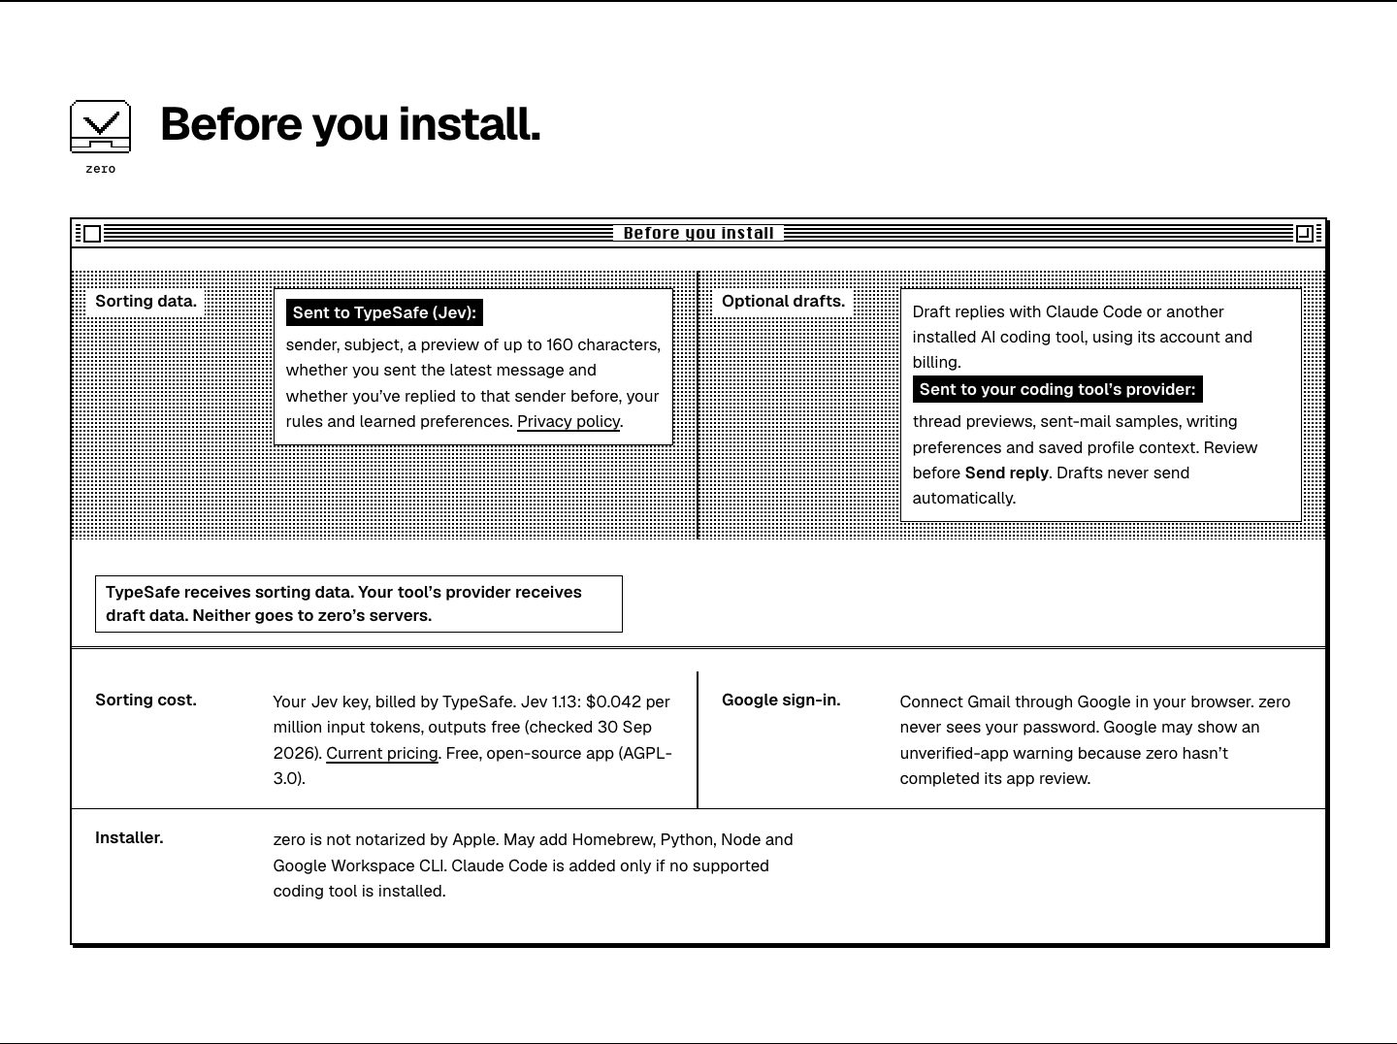
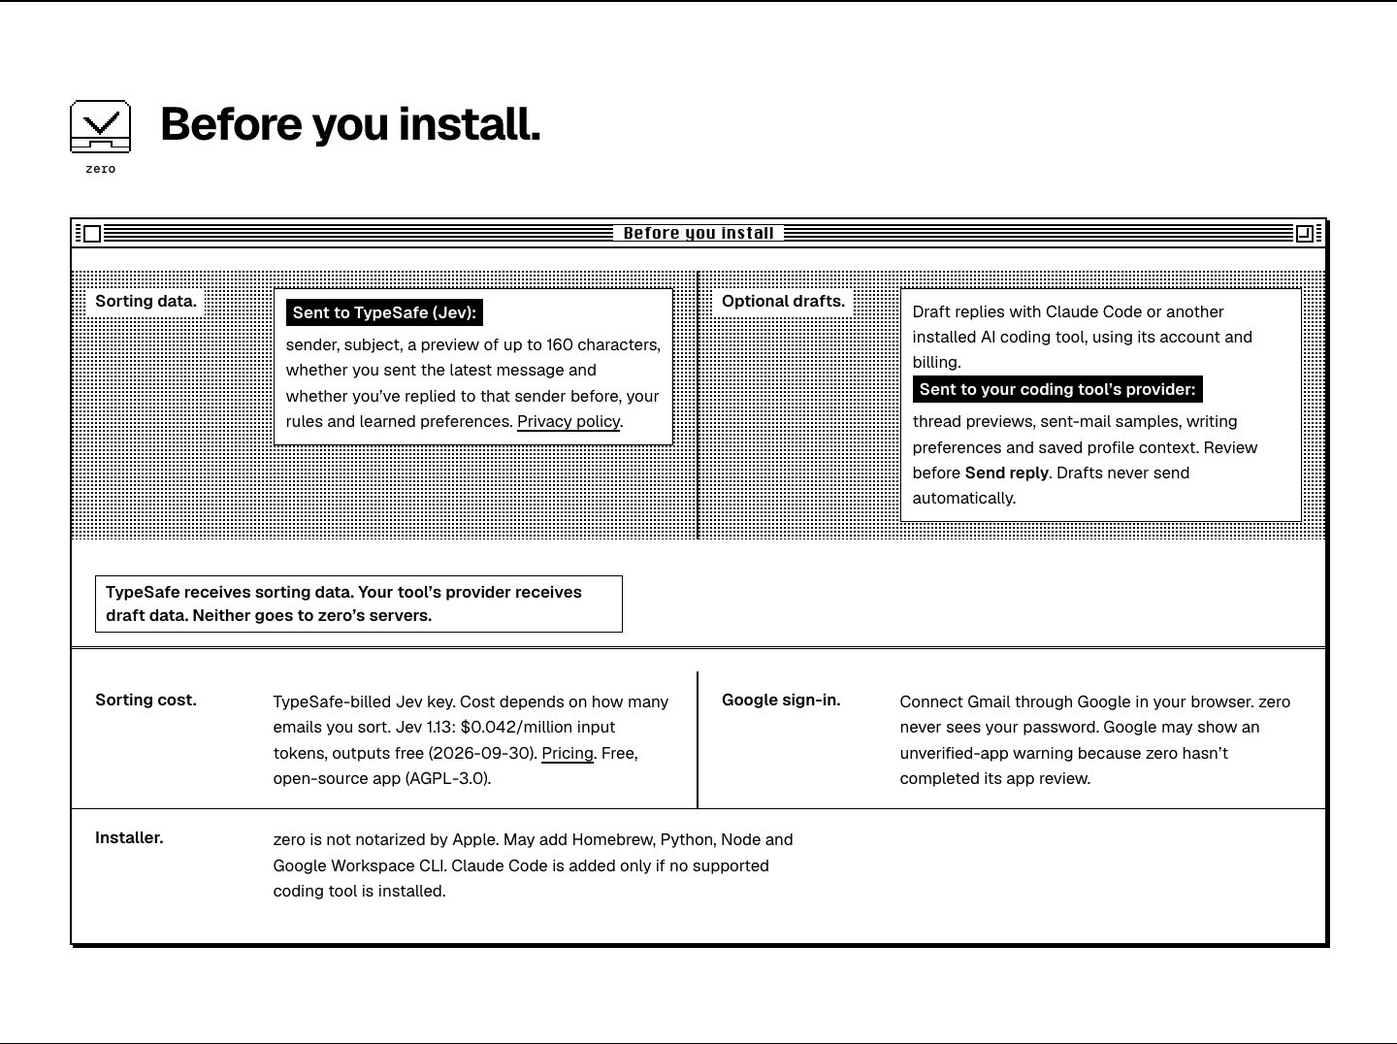
Freeze final page B: Draft6 cost line, owner decisions recorded
Owner approved tightened B at 65463b8 (02:30Z) and kept the hero Trash.
Only change: copywriter's Draft6 Sorting cost row (3088502), 'Cost depends
on how many emails you sort.', same 550 words.
- page-b rebuilt from COPY-B @ 3088502, draft flag now Draft6 (owner-approved)
- shots recaptured, proposal images refreshed
- proposal becomes the record: three reader rounds incl. PRIVACY-B-READERS
  (a98463b), Trash kept (review-qa closed as owner-accepted 7bd8eb0),
  Gmail/Apple Mail accepted as a known reader note, cost line, 148/144
- acceptance logs: Chromium 148/0, WebKit 144/0 (Playwright WebKit 2336)

hero-a/b/c, sections and page-a unchanged. No landing/, push or deploy.

Changed region(s): [[0.1875, 0.6441, 0.4688, 0.7667]]

diff --git a/missions/website-redesign-3/slices/02-references-and-comps/proof/comps/proposal/index.html b/missions/website-redesign-3/slices/02-references-and-comps/proof/comps/proposal/index.html
@@ -58,33 +58,33 @@ footer{padding:18px var(--pad);border-top:var(--line);font:400 14px/1.4 var(--la
 }
 </style>
 <body>
-<p class="draft-flag">PROPOSAL · proof only · not approved</p>
+<p class="draft-flag">RECORD · approved by the owner 02:30Z · not the live site</p>
 
 <header class="band" style="border-top:0">
   <h1>Page B, tightened.</h1>
-  <p class="lede">You chose page B (risk first) with hero B. This page compares the B readers first saw with tightened B, now reviewed, and one more fix after the review.</p>
+  <p class="lede">You approved tightened page B at 02:30Z, with the hero and its Trash unchanged, plus one plain line in the cost row. This page is now the record of what you approved and why. It compares the B readers first saw with the approved B.</p>
   <ol class="ask" id="summary" aria-label="Three-line summary">
     <li>B keeps its risk-first order and approved hero, cutting the repeated Stays/Archived demonstration.</li>
-    <li>Tightened B names both external data recipients and puts the dated Jev token price before sign-in and installation, without removing disclosure fields.</li>
-    <li>Tested type/layout/object/clipboard changes pass independent browser checks. Earlier installer GitHub 429 is retained; QA now independently observes three 302→200 successes. Privacy Draft5 and any approved hero change need a new freeze/recheck. No automatic daily promise, production build or deployment is included.</li>
+    <li>Draft5 names both external recipients and all three fresh readers understand that data leaves the Mac, but not to zero's servers. No fields or billing/install warnings removed.</li>
+    <li>Owner keeps Trash, scheduling unsaid and installer unchanged, accepts the Gmail/Apple Mail reader note, and requests one cost-volume sentence without a monthly estimate. Draft6 stays 550; final generated row/count and QA check are owed. No production build or deployment.</li>
   </ol>
-  <p class="aside-note" style="margin-top:8px">Summary quoted from the copywriter's <code>PROPOSAL.md</code> (83b68ce).</p>
+  <p class="aside-note" style="margin-top:8px">Summary quoted from the copywriter's <code>PROPOSAL.md</code> (a98463b).</p>
   <div class="status">
     <span class="tag inv">Page B + hero B: your choice</span>
-    <span class="tag">Tightened B: reviewed, 1 finding</span>
-    <span class="tag">Hero Trash: your call</span>
+    <span class="tag">Tightened B: approved</span>
+    <span class="tag">Hero Trash: kept, your call</span>
     <span class="tag">Page A: archived, unchanged</span>
     <span class="tag">Nothing is live</span>
   </div>
   <div class="open">
     <a class="btnlink" href="../page-b/">Open tightened B</a>
   </div>
-  <p class="aside-note" style="margin-top:14px">A real, running build with the motion on. Add <code>?static</code> to its address to see the finished state with no motion. The B readers first saw is frozen at <code>cdfee91</code>, and the tightened B that readers and review-qa checked at <code>50bf121</code>. The page you open now also carries the privacy fix below, which nobody has read yet. Page A is frozen as it was and is not part of this proposal (<code>page-a/ARCHIVED.md</code>).</p>
+  <p class="aside-note" style="margin-top:14px">A real, running build with the motion on. Add <code>?static</code> to its address to see the finished state with no motion. The B readers first saw is frozen at <code>cdfee91</code>, tightened B at <code>50bf121</code>, and the privacy fix that readers and review-qa checked at <code>65463b8</code>. The page you open now is the approved B with your cost line added. Page A is frozen as it was and is not part of this proposal (<code>page-a/ARCHIVED.md</code>).</p>
 </header>
 
 <section class="band ink" id="readers">
   <h2>What readers said</h2>
-  <p><b>Mixed, and not a vote for B.</b> Two rounds of fresh AI readers, three at a time, same prompt and model. The first round read the old B, the second read tightened B at <code>50bf121</code>.</p>
+  <p><b>Mixed, and not a vote for B.</b> Three rounds of fresh AI readers, three at a time, same prompt and model. They read the old B, then tightened B at <code>50bf121</code>, then the privacy fix at <code>65463b8</code>.</p>
   <p>Scores out of 5, in this order: job clarity / story / visuals / finding data, safety and cost / readiness to decide.</p>
   <div class="wrap"><table class="scores">
     <thead><tr><th>Page</th><th>R1</th><th>R2</th><th>R3</th></tr></thead>
@@ -92,17 +92,21 @@ footer{padding:18px var(--pad);border-top:var(--line);font:400 14px/1.4 var(--la
       <tr><td>Rejected baseline</td><td>4/3/2/4/2</td><td>4/3/2/3/2</td><td>4/3/2/4/3</td></tr>
       <tr><td>Old B <code>cdfee91</code></td><td>4/3/3/3/2</td><td>4/3/3/3/2</td><td>4/3/3/3/3</td></tr>
       <tr><td>Tightened B <code>50bf121</code></td><td>4/3/3/3/2</td><td>4/3/3/4/2</td><td>4/3/3/3/3</td></tr>
+      <tr><td>Privacy fix <code>65463b8</code></td><td>4/3/3/3/2</td><td>4/3/3/3/3</td><td>4/3/2/4/3</td></tr>
     </tbody>
   </table></div>
-  <p><b>Readiness did not improve.</b> The one higher findability score is a narrow signal, not a general gain. What did land: all three readers of tightened B found both outside recipients, what each receives, and the dated unit price.</p>
-  <p>Still open after tightened B: two of three still flag "No zero server receives your email" as easy to read as nothing leaving the Mac. That line is now replaced (see below), but the new line hasn't been read yet. All three ask what typical use costs and how the installer's Claude Code fits optional drafts. Those two are product questions for you, not copy fixes, and the page doesn't invent an estimate. Two of three flag the hero's archived folder beside Trash (review-qa's finding, below).</p>
-  <p class="aside-note">The readers are AI models reading stills and copy, not people and not live motion. Each round uses new sessions, so rounds are matched in procedure, not the same readers twice. Full analysis: <code>slices/01-copy-and-story/proof/rethink/TIGHTENED-B-READERS.md</code> and <code>after-findings.md</code>.</p>
+  <p><b>No broad improvement.</b> Readiness to decide moved from 2/2/3 to 2/3/3 in the last round, while findability moved both ways and one visuals score fell. That is a narrow signal, not a win. What did land: tightened B made both outside recipients, what each receives, and the dated unit price findable for all three readers.</p>
+  <p><b>The privacy fix worked for its one job.</b> After it, all three readers name TypeSafe for sorting, the coding tool's provider for optional drafts, and that neither goes to zero's servers. None repeats the earlier "nothing leaves the Mac" reading. One reader still asks how long the recipients keep data, which the page doesn't answer.</p>
+  <p><b>A cost of the fix:</b> two of three now ask whether Apple Mail is a supported account or only a place to read mail. Cutting the ledger's "Read connected Gmail in Gmail or Apple Mail." removed the only spot that said so. The same question showed up in earlier rounds, so it isn't caused only by the cut. You accepted it as a known note, with no copy change.</p>
+  <p>Readers still ask what typical use costs and how the installer's Claude Code fits optional drafts. The cost row now says cost depends on how many emails you sort, at your request. No reader has seen that line yet, and the page still doesn't invent a monthly estimate.</p>
+  <p class="aside-note">The readers are AI models reading stills and copy, not people and not live motion. Each round uses new sessions, so rounds are matched in procedure, not the same readers twice. Full analysis: <code>slices/01-copy-and-story/proof/rethink/PRIVACY-B-READERS.md</code>, <code>TIGHTENED-B-READERS.md</code> and <code>after-findings.md</code>.</p>
 </section>
 
 <section class="band" id="trust">
   <h2>The main change: who gets your data, and what it costs</h2>
   <p>The two rows where mail data leaves your Mac now come first, together, on their own dithered band. Each names its recipient in a black label on its own line: <b>Sent to TypeSafe (Jev):</b> and <b>Sent to your coding tool's provider:</b>. The cost row comes straight after, with Jev 1.13's per-token price dated 30 Sep 2026, then Google sign-in and the installer.</p>
   <p><b>After the review:</b> readers still misread the old reassurance, so it's now one full-width statement directly under the pair: "TypeSafe receives sorting data. Your tool's provider receives draft data. Neither goes to zero's servers." It says who does get the data before saying who doesn't. The lede above the window ("Read connected Gmail in Gmail or Apple Mail.") is cut to pay for it, since the hero already says you keep using Gmail or Apple Mail. Net +1 word, 550 of 550.</p>
+  <p><b>Your cost line (Draft6):</b> the Sorting cost row now reads "TypeSafe-billed Jev key. Cost depends on how many emails you sort. Jev 1.13: $0.042/million input tokens, outputs free (2026-09-30). Pricing. Free, open-source app (AGPL-3.0)." The same facts, compacted so the plain sentence fits. Still 550 words.</p>
   <div class="cols">
     <figure><img src="img/b-old/beat-ledger-f2.jpg" alt="Old B's Before you install window at 1440px: five equal rows, Google sign-in first, and TypeSafe's receipt of mail data in running text" loading="lazy" width="1440" height="917"><figcaption>Old B (cdfee91): five equal rows, sign-in first, no price</figcaption></figure>
     <figure><img src="img/b-new/ledger-1440.jpg" alt="Tightened B's Before you install window at 1440px: Sorting data and Optional drafts paired on a dithered band with black recipient labels, then an outlined full-width statement that TypeSafe receives sorting data, your tool's provider receives draft data and neither goes to zero's servers, then Sorting cost with the dated price, Google sign-in and Installer" loading="lazy" width="720" height="538"><figcaption>Tightened B with the privacy fix: recipients, then who doesn't get it, then the price</figcaption></figure>
@@ -117,16 +121,16 @@ footer{padding:18px var(--pad);border-top:var(--line);font:400 14px/1.4 var(--la
 </section>
 
 <section class="band" id="trash">
-  <h2>Review-qa's one finding: the hero's Trash</h2>
+  <h2>Review-qa's one finding: the hero's Trash (kept)</h2>
   <p>review-qa independently reran both engines (146/0 and 142/0, matching), re-probed the installer link (three clean redirects, so the earlier 429 was GitHub rate-limiting) and confirmed two earlier critique fixes are closed. It found one new issue, rated medium. The hero shows an empty Trash beside the archive folder, and the page promises "Nothing is deleted." Reader 1 ranked "remove or explain the Trash icon" their top fix. Reader 3 flagged the same pairing.</p>
-  <p>We recommend dropping the Trash icon. It's already drawn empty, and the question readers ask is why it's there at all, which an empty-state cue can't answer. The folder carries the story alone. Trash is part of the hero you approved, so this is your call. We haven't changed it. Dropping it removes one word ("Trash"), so the page would count 549.</p>
+  <p>We recommended dropping the Trash icon, since readers asked why it's there at all. <b>Your decision (02:30Z): keep it.</b> The hero stays exactly as approved, and review-qa has closed the finding as owner-accepted (<code>7bd8eb0</code>). The mockups below are kept as the record of what was weighed.</p>
   <div class="cols">
-    <figure><img src="img/trash/trash-keep-1440.jpg" alt="Hero B at 1440px as approved, with the Auto-Archived folder at lower left and an empty Trash can at lower right" loading="lazy" width="1440" height="900"><figcaption>As approved: folder and Trash</figcaption></figure>
-    <figure><img src="img/trash/trash-drop-1440.jpg" alt="Hero B at 1440px with the Trash can removed; only the Auto-Archived folder remains on the desktop" loading="lazy" width="1440" height="900"><figcaption>Proposed: folder only (mock, not built)</figcaption></figure>
+    <figure><img src="img/trash/trash-keep-1440.jpg" alt="Hero B at 1440px as approved, with the Auto-Archived folder at lower left and an empty Trash can at lower right" loading="lazy" width="1440" height="900"><figcaption>Kept: folder and Trash</figcaption></figure>
+    <figure><img src="img/trash/trash-drop-1440.jpg" alt="Hero B at 1440px with the Trash can removed; only the Auto-Archived folder remains on the desktop" loading="lazy" width="1440" height="900"><figcaption>Weighed, not chosen: folder only (mock, not built)</figcaption></figure>
   </div>
   <div class="cols">
-    <figure><img src="img/trash/trash-keep-390.jpg" alt="Hero B at 390px as approved, folder and Trash side by side above the inbox" loading="lazy" width="390" height="1100"><figcaption>As approved, 390px</figcaption></figure>
-    <figure><img src="img/trash/trash-drop-390.jpg" alt="Hero B at 390px with the Trash removed, folder alone above the inbox" loading="lazy" width="390" height="1100"><figcaption>Proposed, 390px (mock)</figcaption></figure>
+    <figure><img src="img/trash/trash-keep-390.jpg" alt="Hero B at 390px as approved, folder and Trash side by side above the inbox" loading="lazy" width="390" height="1100"><figcaption>Kept, 390px</figcaption></figure>
+    <figure><img src="img/trash/trash-drop-390.jpg" alt="Hero B at 390px with the Trash removed, folder alone above the inbox" loading="lazy" width="390" height="1100"><figcaption>Weighed, not chosen, 390px (mock)</figcaption></figure>
   </div>
   <p class="aside-note">Review: <code>slices/05-independent-qa/proof/proposal-review.md</code> (df6632d). The mock removes the icon in a live browser. It isn't built into the page.</p>
 </section>
@@ -186,7 +190,7 @@ footer{padding:18px var(--pad);border-top:var(--line);font:400 14px/1.4 var(--la
       <tr><td>Motion</td><td>One beat per section</td><td>Same four beats. Also settles at once if you turn on Reduce Motion mid-visit, or open a link straight to a section</td></tr>
     </tbody>
   </table></div>
-  <p class="aside-note" style="margin-top:12px">Words: 549 at <code>50bf121</code>, then 550 of 550 with the privacy fix (Draft5, <code>dcaabd6</code>), counted by the copywriter. Line-by-line copy: <code>slices/01-copy-and-story/proof/rethink/SELECTED-B-COPY.md</code>.</p>
+  <p class="aside-note" style="margin-top:12px">Words: 549 at <code>50bf121</code>, then 550 of 550 with the privacy fix (Draft5, <code>dcaabd6</code>) and with your cost line (Draft6, <code>3088502</code>), counted by the copywriter. Line-by-line copy: <code>slices/01-copy-and-story/proof/rethink/SELECTED-B-COPY.md</code>.</p>
 </section>
 
 <section class="band" id="motion">
@@ -223,11 +227,11 @@ footer{padding:18px var(--pad);border-top:var(--line);font:400 14px/1.4 var(--la
   <div class="wrap"><table>
     <thead><tr><th>Check</th><th>Result</th></tr></thead>
     <tbody>
-      <tr><td>Automated acceptance, 320 to 2560px</td><td>At <code>50bf121</code>: Chromium 146/0, WebKit 142/0, reproduced independently by the copywriter and by review-qa. With the privacy fix: Chromium 148/0, WebKit 144/0 (adds the privacy-line check and a scroll-timing check). No sideways scroll, text stays in its section, rendered words match the counted copy, the no-JS and reduced-motion states equal the finished page, keyboard focus only reaches real links and Copy command. Run on <code>acceptance/serve.py</code>: the plain Python server reset about 1 in 15 Chromium script requests, which showed up as false failures</td></tr>
+      <tr><td>Automated acceptance, 320 to 2560px</td><td>At <code>50bf121</code>: Chromium 146/0, WebKit 142/0, reproduced independently by the copywriter and by review-qa. With the privacy fix: Chromium 148/0, WebKit 144/0 (adds the privacy-line check and a scroll-timing check), and the same 148/0 and 144/0 again with your cost line. No sideways scroll, text stays in its section, rendered words match the counted copy, the no-JS and reduced-motion states equal the finished page, keyboard focus only reaches real links and Copy command. Run on <code>acceptance/serve.py</code>: the plain Python server reset about 1 in 15 Chromium script requests, which showed up as false failures</td></tr>
       <tr><td>Scroll timing</td><td>development-motion found that a reader scrolling very early could skip a section's beat, or leave it blank (reproduced on <code>50bf121</code>). Fixed in the shared motion script and covered by a new check</td></tr>
       <tr><td>Copy command</td><td>Tested with a stand-in clipboard (allowed, denied, missing), not the real system clipboard</td></tr>
-      <tr><td>Fresh readers on tightened B</td><td>3 read <code>50bf121</code>: mixed, readiness unchanged (above). <span class="pending">The privacy fix is not yet read</span></td></tr>
-      <tr><td>Adversarial review (review-qa)</td><td>Done on <code>50bf121</code> (df6632d): 1 new finding, the hero Trash. <span class="pending">Re-check of the privacy fix pending</span></td></tr>
+      <tr><td>Fresh readers</td><td>3 read <code>50bf121</code>, then 3 new readers read the privacy fix at <code>65463b8</code>: mixed, no broad improvement (above). <span class="pending">The cost line is not read</span></td></tr>
+      <tr><td>Adversarial review (review-qa)</td><td>Pass 1 on <code>50bf121</code> (df6632d): 1 finding, the hero Trash, closed as owner-accepted (<code>7bd8eb0</code>). Pass 2 on <code>65463b8</code> (<code>72f3424</code>): no new findings. <span class="pending">One last re-check of the final commit pending</span></td></tr>
       <tr><td>Installer link</td><td>One earlier run got 429 from GitHub. review-qa then saw three clean 302→200 redirects. Treated as rate-limiting, not a broken link</td></tr>
       <tr><td>Not verified</td><td>Real Safari 26 and real iPhones or Macs. "WebKit" is Playwright's build. The readers are AI models, not people.</td></tr>
     </tbody>
@@ -235,14 +239,19 @@ footer{padding:18px var(--pad);border-top:var(--line);font:400 14px/1.4 var(--la
 </section>
 
 <section class="band ink" id="decide">
-  <h2>What we'll ask you next</h2>
+  <h2>What you decided, and what's still open</h2>
   <ol class="ask">
-    <li><b>Hero Trash</b>: drop it (our recommendation), or keep the hero exactly as approved.</li>
-    <li><b>Tightened B</b>: keep it, once review-qa has re-checked the privacy fix.</li>
-    <li><b>Cost and installer</b>: readers want a typical monthly cost and to know why the installer may add Claude Code. Both need product answers from you. The page won't invent them.</li>
-    <li><b>Scheduling</b>: leave it unsaid (now), or add the one conditional line above.</li>
+    <li><b>Tightened B</b>: approved (02:30Z).</li>
+    <li><b>Hero Trash</b>: kept exactly as approved.</li>
+    <li><b>Sorting cost</b>: add one plain line, "Cost depends on how many emails you sort." Done within the same 550 words.</li>
+    <li><b>Gmail and Apple Mail</b>: two of three readers now ask whether Apple Mail is a supported account or only a place to read mail. Accepted as a known reader note, with no copy change. The hero's "Keep using Gmail or Apple Mail." and "Gmail only." stay as they are.</li>
   </ol>
-  <p class="aside-note">Nothing goes live from this page, and nothing is built for the real site yet. Answers go through main-lead.</p>
+  <p style="margin-top:18px"><b>Still open, for later:</b></p>
+  <ol class="ask">
+    <li><b>Cost and installer</b>: readers still want a typical monthly cost and to know why the installer may add Claude Code. The installer text stays unchanged. A monthly figure needs a product answer, and the page won't invent one.</li>
+    <li><b>Scheduling</b>: left unsaid. The one conditional line above stays available.</li>
+  </ol>
+  <p class="aside-note">Nothing goes live from this page. The build (slice 03) starts from the frozen commit main-lead releases.</p>
 </section>
 
 <footer>zero redesign 3 · slice 02 · proposal page · built by design.lead with design-copywriter</footer>

diff --git a/missions/website-redesign-3/slices/02-references-and-comps/proof/comps/page-b/index.html b/missions/website-redesign-3/slices/02-references-and-comps/proof/comps/page-b/index.html
@@ -204,7 +204,7 @@ svg.px.f-empty{display:none}
     </dl>
     <p class="bound"><b class="to not">TypeSafe receives sorting data. Your tool’s provider receives draft data. Neither goes to zero’s servers.</b></p>
     <dl class="rows">
-          <div class="row"><dt class="k">Sorting cost.</dt><dd class="v">Your Jev key, billed by TypeSafe. Jev 1.13: $0.042 per million input tokens, outputs free (checked 30 Sep 2026). <a href="https://docs.typesafe.ai/models">Current pricing</a>. Free, open-source app (AGPL-3.0).</dd></div>
+          <div class="row"><dt class="k">Sorting cost.</dt><dd class="v">TypeSafe-billed Jev key. Cost depends on how many emails you sort. Jev 1.13: $0.042/million input tokens, outputs free (2026-09-30). <a href="https://docs.typesafe.ai/models">Pricing</a>. Free, open-source app (AGPL-3.0).</dd></div>
           <div class="row"><dt class="k">Google sign-in.</dt><dd class="v">Connect Gmail through Google in your browser. zero never sees your password. Google may show an unverified-app warning because zero hasn’t completed its app review.</dd></div>
           <div class="row"><dt class="k">Installer.</dt><dd class="v">zero is not notarized by Apple. May add Homebrew, Python, Node and Google Workspace CLI. Claude Code is added only if no supported coding tool is installed.</dd></div>
     </dl>
@@ -284,7 +284,7 @@ svg.px.f-empty{display:none}
   <a href="https://zero.headless.com/privacy.html">Privacy</a>
   <a href="https://zero.headless.com/terms.html">Terms</a>
 </footer>
-<p class="draft-flag">DRAFT comp · page B · risk-first · Draft4 (owner-selected B) · not approved</p>
+<p class="draft-flag">DRAFT comp · page B · risk-first · Draft6 (owner-approved B) · not the live site</p>
 
 <script src="../kit/motion.js"></script>
 <!-- hero B story, verbatim -->

diff --git a/missions/website-redesign-3/slices/02-references-and-comps/proof/comps/kit/build-pages.py b/missions/website-redesign-3/slices/02-references-and-comps/proof/comps/kit/build-pages.py
@@ -6,7 +6,7 @@ approved hero cannot drift. Two changes only: the menu bar's "How it works" link
 it pointed at is cut in both outlines) and the page-level heading face comes from page.css (option T3).
 Section words are Draft3 (slices/01-copy-and-story/proof/rethink/SECTION-COPY.md @ 496d985): the COPY-A / COPY-B,
 OBJECT-COPY and RULES-B-COPY blocks. Page B's own section words (owner's choice, 00:58Z) are parsed from the
-copywriter's counted DRAFT5 COPY-B block in SELECTED-B-COPY.md (@ dcaabd6, which adds the zero-server boundary line and drops the ledger lede), not retyped. Page A is archived on Draft3.
+copywriter's counted DRAFT6 COPY-B block in SELECTED-B-COPY.md (@ 3088502: Draft5's zero-server boundary line and dropped ledger lede, plus the owner-authorized cost-volume sentence in Sorting cost), not retyped. Page A is archived on Draft3.
 The acceptance script checks the rendered words against those blocks.
 Run from proof/comps:  python3 kit/build-pages.py && python3 kit/inject.py"""
 import re
@@ -15,7 +15,7 @@ from pathlib import Path
 comps = Path(__file__).resolve().parent.parent
 hero_src = (comps / "hero-b" / "index.html").read_text()
 copy_src = (comps.parents[2] / "01-copy-and-story" / "proof" / "rethink" / "SECTION-COPY.md").read_text()
-# page B (owner's choice, 00:58Z) is built from the copywriter's counted DRAFT5 block; page A stays on Draft3 (archived)
+# page B (owner's choice 00:58Z, approved 02:30Z) is built from the copywriter's counted DRAFT6 block; page A stays on Draft3 (archived)
 copy_b_src = (comps.parents[2] / "01-copy-and-story" / "proof" / "rethink" / "SELECTED-B-COPY.md").read_text()
 
 
@@ -251,7 +251,7 @@ for name, label, sections in [("page-a", "A · recovery-first", A_sections), ("p
 {chr(10).join(sections)}
 </main>
 {FOOTER}
-<p class="draft-flag">DRAFT comp · page {label} · {"Draft5 (owner-selected B)" if name == "page-b" else "Draft3"} · not approved</p>
+<p class="draft-flag">DRAFT comp · page {label} · {"Draft6 (owner-approved B) · not the live site" if name == "page-b" else "Draft3 · not approved"}</p>
 
 <script src="../kit/motion.js"></script>
 <!-- hero B story, verbatim -->
